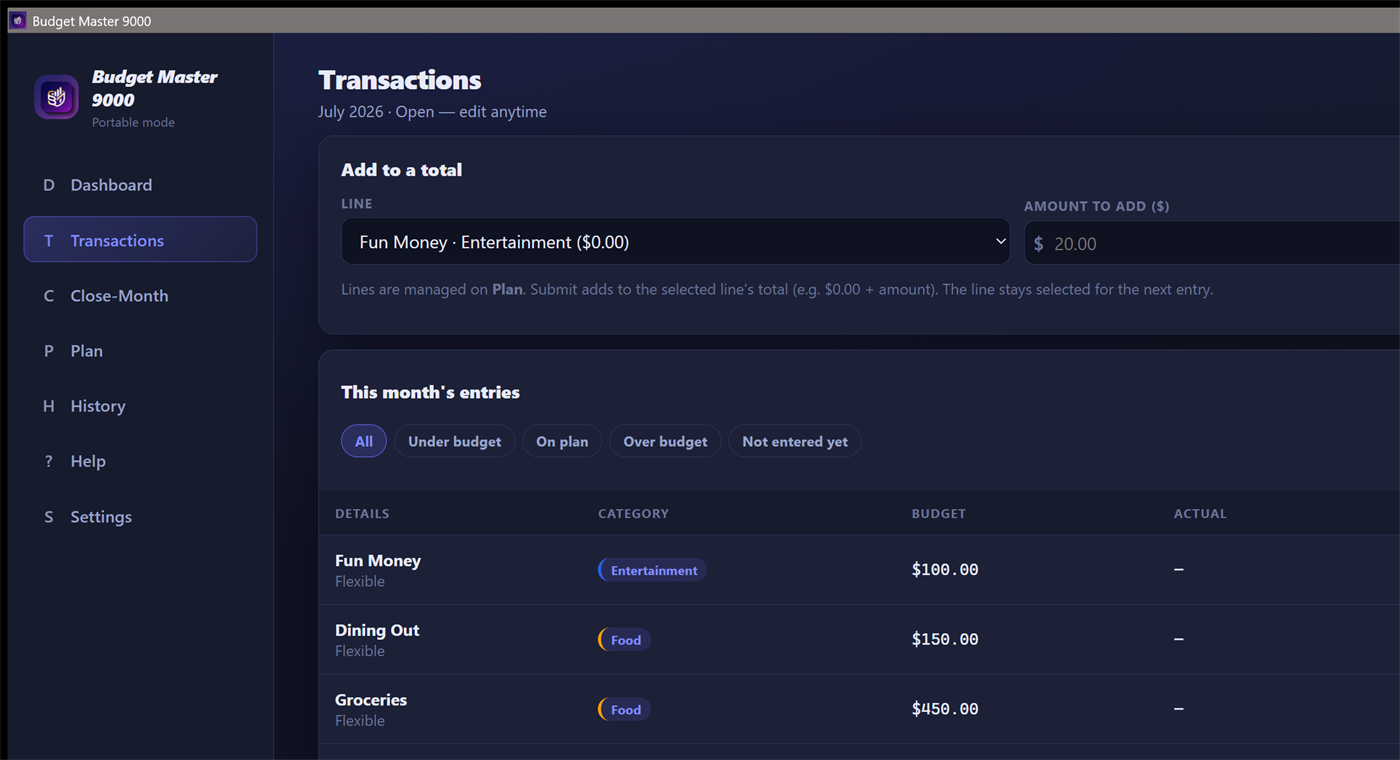
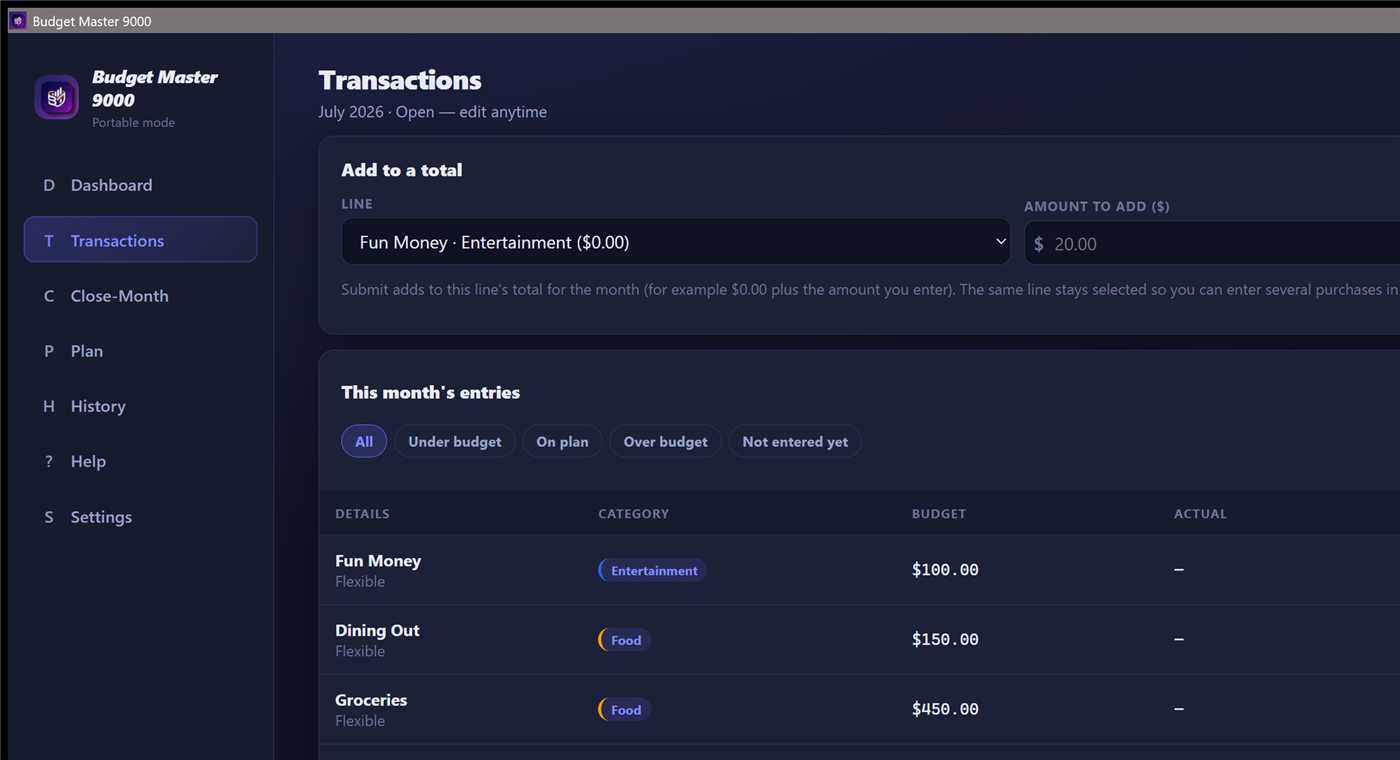
Docs: polish Transactions helper copy and screenshot.

diff --git a/src/main.ts b/src/main.ts
@@ -1002,8 +1002,7 @@ function viewTransactions(): string {
      <button class="btn btn-primary" type="submit" ${addLineId ? "" : "disabled"}>Submit</button>
    </form>
    <p class="dim mt-1">
-     Lines are managed on <strong>Plan</strong>. Submit adds to the selected line's total
-     (e.g. ${money(selectedLine?.actualAmount ?? 0)} + amount). The line stays selected for the next entry.
+     Submit adds to this line’s total for the month (for example ${money(selectedLine?.actualAmount ?? 0)} plus the amount you enter). The same line stays selected so you can enter several purchases in a row.
    </p>
  </div>`
     : `<div class="info-callout tx-add-panel">This month is closed. Reopen it from History to edit transactions.</div>`;
